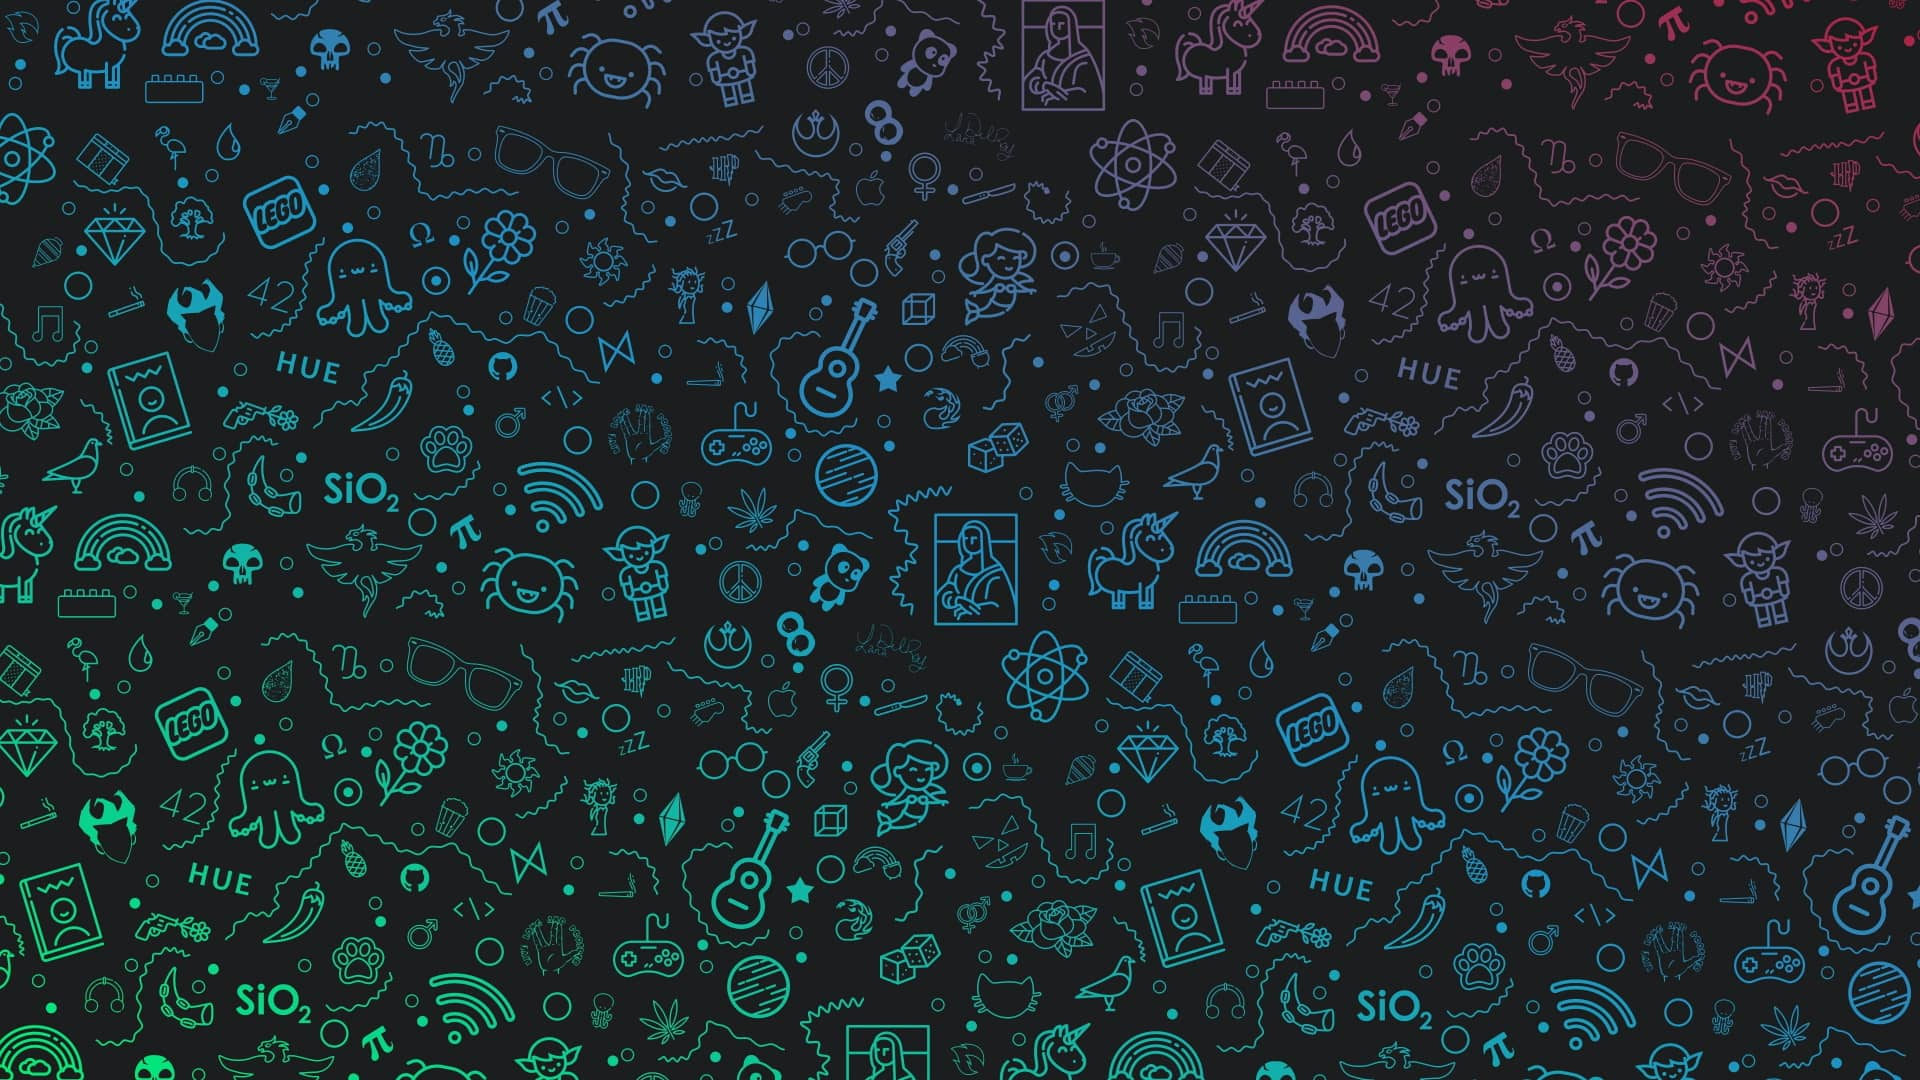
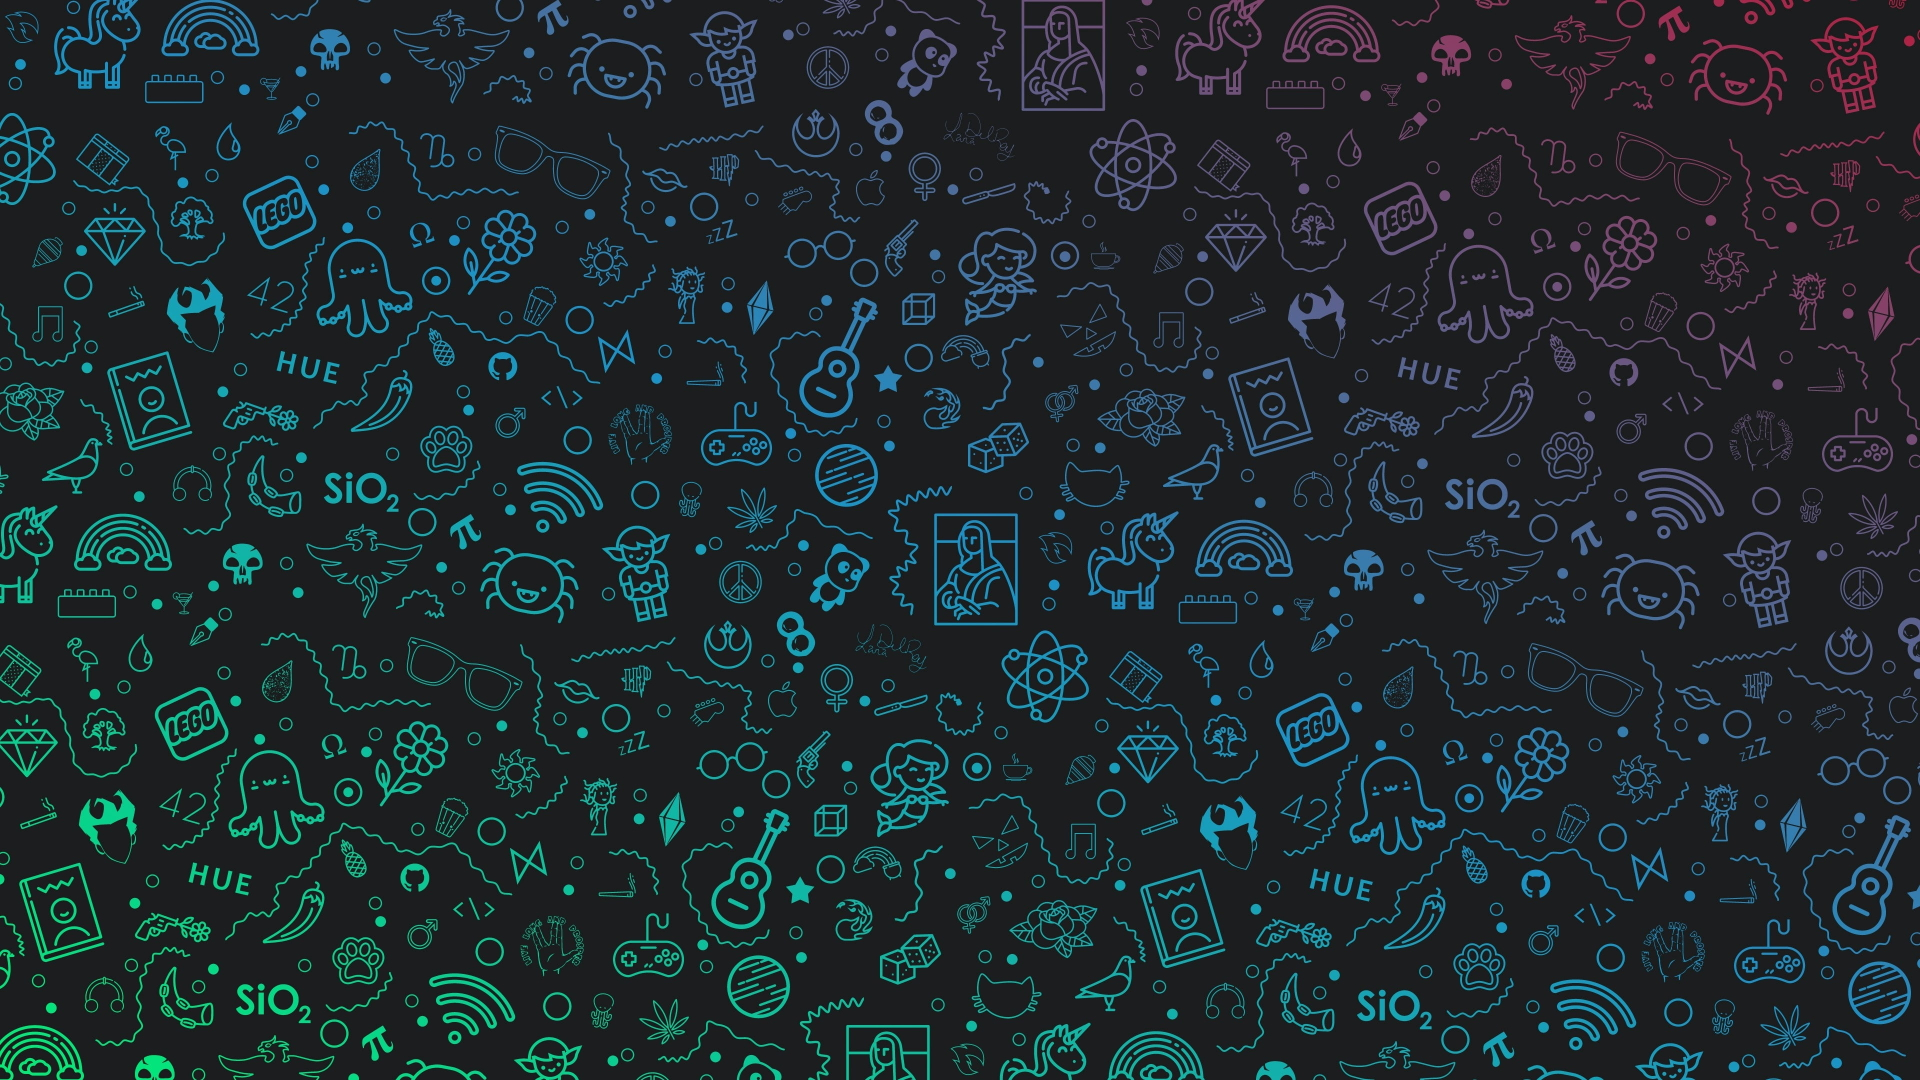
background better quality - clearLocalStorage functions deleted

diff --git a/build/static/js/main.74f4a0b4.chunk.js b/build/static/js/main.74f4a0b4.chunk.js
@@ -1,0 +1,2 @@
+(this["webpackJsonpchat-react-socket"]=this["webpackJsonpchat-react-socket"]||[]).push([[0],{107:function(e,t,n){},108:function(e,t,n){},109:function(e,t,n){},111:function(e,t,n){},112:function(e,t,n){"use strict";n.r(t);var c=n(0),a=n.n(c),r=n(21),s=n.n(r),i=n(7);function o(e,t){var n="React-Socket-Chat"+e,a=Object(c.useState)((function(){var e=localStorage.getItem(n);return null!=e?JSON.parse(e):"function"===typeof t?t():t})),r=Object(i.a)(a,2),s=r[0],o=r[1];return Object(c.useEffect)((function(){localStorage.setItem(n,JSON.stringify(s))}),[n,s]),[s,o]}var l=n(115),j=n(119),u=n(116),d=n(120),b=n(1);function m(e){var t=e.onIdSubmit,n=Object(c.useRef)();return Object(b.jsx)(l.a,{className:"align-items-center d-flex",style:{height:"100vh"},children:Object(b.jsxs)(j.a,{onSubmit:function(e){e.preventDefault(),t(n.current.value)},className:"w-100 loginForm",children:[Object(b.jsxs)(j.a.Group,{children:[Object(b.jsxs)(j.a.Label,{children:[Object(b.jsx)("p",{className:"loginText text-white",children:"- Enter your 10 Digit Phone Number"}),Object(b.jsx)("p",{className:"loginText text-white",children:"- Or Generate a Random ID"})]}),Object(b.jsx)(j.a.Control,{type:"text",ref:n,required:!0})]}),Object(b.jsx)(u.a,{type:"submit",className:"mr-2 btnCreate",children:"Login"}),Object(b.jsx)(u.a,{onClick:function(){t(Object(d.a)())},variant:"secondary",children:"Create a new ID"}),Object(b.jsx)(u.a,{onClick:function(){localStorage.clear()},className:"rounded-1 modalButton",children:"Borrame"})]})})}var f=n(117),x=n(24),O=n(22),h=a.a.createContext();function v(){return Object(c.useContext)(h)}function p(e){var t=e.children,n=o("contacts",[]),c=Object(i.a)(n,2),a=c[0],r=c[1];return Object(b.jsx)(h.Provider,{value:{contacts:a,createContact:function(e,t){r((function(n){return[].concat(Object(O.a)(n),[{id:e,name:t}])}))}},children:t})}var g=n(66),C=n.n(g),y=a.a.createContext();function N(e){var t=e.id,n=e.children,a=Object(c.useState)(),r=Object(i.a)(a,2),s=r[0],o=r[1];return Object(c.useEffect)((function(){var e=C()("https://ulisesv-react-chat-webapp.herokuapp.com",{withCredentials:!1,query:{id:t}});return o(e),console.log(e),function(){return e.close()}}),[t]),Object(b.jsx)(y.Provider,{value:s,children:n})}var S=a.a.createContext();function I(){return Object(c.useContext)(S)}function k(e){var t=e.id,n=e.children,a=o("conversations",[]),r=Object(i.a)(a,2),s=r[0],l=r[1],j=Object(c.useState)(0),u=Object(i.a)(j,2),d=u[0],m=u[1],f=v().contacts,h=Object(c.useContext)(y);var p=Object(c.useCallback)((function(e){var t=e.recipients,n=e.text,c=e.sender;l((function(e){var a=!1,r={sender:c,text:n},s=e.map((function(e){return n=e.recipients,c=t,n.length===c.length&&(n.sort(),c.sort(),n.every((function(e,t){return e===c[t]})))?(a=!0,Object(x.a)(Object(x.a)({},e),{},{messages:[].concat(Object(O.a)(e.messages),[r])})):e;var n,c}));return a?s:[].concat(Object(O.a)(e),[{recipients:t,messages:[r]}])}))}),[l]);Object(c.useEffect)((function(){if(null!=h)return h.on("receive-message",p),function(){return h.off("receive-message")}}),[h,p]);var g=s.map((function(e,n){var c=e.recipients.map((function(e){var t=f.find((function(t){return t.id===e})),n=t&&t.name||e;return{id:e,name:n}})),a=e.messages.map((function(e){var n=f.find((function(t){return t.id===e.sender})),c=n&&n.name||e.sender,a=t===e.sender;return Object(x.a)(Object(x.a)({},e),{},{senderName:c,fromMe:a})})),r=n===d;return Object(x.a)(Object(x.a)({},e),{},{messages:a,recipients:c,selected:r})})),C={conversations:g,selectedConversation:g[d],sendMessage:function(e,n){h.emit("send-message",{recipients:e,text:n}),p({recipients:e,text:n,sender:t})},selectConversationIndex:m,createConversation:function(e){l((function(t){return[].concat(Object(O.a)(t),[{recipients:e,messages:[]}])}))}};return Object(b.jsx)(S.Provider,{value:C,children:n})}function w(){var e=Object(c.useState)(""),t=Object(i.a)(e,2),n=t[0],a=t[1],r=Object(c.useCallback)((function(e){e&&e.scrollIntoView({smooth:!0})}),[]),s=I(),o=s.sendMessage,l=s.selectedConversation;return Object(b.jsxs)("div",{className:"d-flex flex-column flex-grow-1 conversationMain",children:[Object(b.jsx)("div",{className:"flex-grow-1 overflow-auto",children:Object(b.jsx)("div",{className:"d-flex flex-column align-items-start justify-content-end px-3",children:l.messages.map((function(e,t){var n=l.messages.length-1===t;return Object(b.jsxs)("div",{ref:n?r:null,className:"my-1 d-flex flex-column ".concat(e.fromMe?"align-self-end align-items-end":"align-items-start"),children:[Object(b.jsx)("div",{className:"rounded px-2 py-1 ".concat(e.fromMe?"forMe":"notForMe"),children:e.text}),Object(b.jsx)("div",{className:"userReference small ".concat(e.fromMe?"text-right mr-2":"ml-2"),children:e.fromMe?"You":e.senderName})]},t)}))})}),Object(b.jsx)(j.a,{onSubmit:function(e){e.preventDefault(),o(l.recipients.map((function(e){return e.id})),n),a("")},children:Object(b.jsx)(j.a.Group,{className:"m-2",children:Object(b.jsxs)(f.a,{children:[Object(b.jsx)(j.a.Control,{as:"textarea",required:!0,value:n,onChange:function(e){return a(e.target.value)},style:{height:"75px",resize:"none"},className:"textArea"}),Object(b.jsx)(f.a.Append,{children:Object(b.jsxs)(u.a,{type:"submit",className:"sendMessage",children:["Send ",Object(b.jsx)("i",{className:"far fa-arrow-alt-circle-right"})]})})]})})})]})}var B=n(122),M=n(121),E=n(118),L=n(123);n(107);function D(){var e=I(),t=e.conversations,n=e.selectConversationIndex;return Object(b.jsx)(L.a,{variant:"flush",children:t.map((function(e,t){return Object(b.jsx)(L.a.Item,{action:!0,onClick:function(){return n(t)},active:e.selected,children:e.recipients.map((function(e){return e.name})).join(", ")},t)}))})}function G(){var e=v().contacts;return Object(b.jsx)(L.a,{variant:"flush",className:"contact",children:e.map((function(e){return Object(b.jsxs)(L.a.Item,{className:"contact",children:[Object(b.jsx)("p",{className:"contactLine",children:e.name})," ",Object(b.jsx)("p",{className:"contactLine id",children:e.id})]},e.id)}))})}n(108),n(109);function P(e){var t=e.closeModal,n=Object(c.useRef)(),a=Object(c.useRef)(),r=v().createContact;return Object(b.jsxs)(b.Fragment,{children:[Object(b.jsx)(E.a.Header,{closeButton:!0,children:"Create Contact"}),Object(b.jsx)(E.a.Body,{children:Object(b.jsxs)(j.a,{onSubmit:function(e){e.preventDefault(),r(n.current.value,a.current.value),t()},children:[Object(b.jsxs)(j.a.Group,{children:[Object(b.jsx)(j.a.Label,{children:"Id"}),Object(b.jsx)(j.a.Control,{type:"text",ref:n,required:!0})]}),Object(b.jsxs)(j.a.Group,{children:[Object(b.jsx)(j.a.Label,{children:"Name"}),Object(b.jsx)(j.a.Control,{type:"text",ref:a,required:!0})]}),Object(b.jsx)(u.a,{type:"submit",className:"btnCreate",children:"Create"})]})})]})}function R(e){var t=e.closeModal,n=Object(c.useState)([]),a=Object(i.a)(n,2),r=a[0],s=a[1],o=v().contacts,l=I().createConversation;return Object(b.jsxs)(b.Fragment,{children:[Object(b.jsx)(E.a.Header,{closeButton:!0,children:"Create Conversation"}),Object(b.jsx)(E.a.Body,{children:Object(b.jsxs)(j.a,{onSubmit:function(e){e.preventDefault(),l(r),t()},children:[o.map((function(e){return Object(b.jsx)(j.a.Group,{controlId:e.id,children:Object(b.jsx)(j.a.Check,{type:"checkbox",value:r.includes(e.id),label:e.name,onChange:function(){return t=e.id,void s((function(e){return e.includes(t)?e.filter((function(e){return t!==e})):[].concat(Object(O.a)(e),[t])}));var t}})},e.id)})),Object(b.jsx)(u.a,{type:"submit",className:"btnCreate",children:"Create"})]})})]})}var q="conversations",H="contacts";function K(e){var t=e.id,n=Object(c.useState)(q),a=Object(i.a)(n,2),r=a[0],s=a[1],o=Object(c.useState)(!1),l=Object(i.a)(o,2),j=l[0],d=l[1],m=r===q;function f(){d(!1)}return Object(b.jsxs)("div",{id:"sideBarContainer",className:"flex-column sideBarContainer",style:{display:"flex"},children:[Object(b.jsxs)(B.a.Container,{activeKey:r,onSelect:s,children:[Object(b.jsxs)(M.a,{variant:"tabs",className:"justify-content-left",children:[Object(b.jsx)(M.a.Item,{children:Object(b.jsx)(M.a.Link,{className:"activeTab",eventKey:q,children:"Conversations"})}),Object(b.jsx)(M.a.Item,{children:Object(b.jsx)(M.a.Link,{className:"disableTab",eventKey:H,children:"Contacts"})})]}),Object(b.jsxs)(B.a.Content,{className:"overflow-auto flex-grow-1",children:[Object(b.jsx)(B.a.Pane,{eventKey:q,children:Object(b.jsx)(D,{})}),Object(b.jsx)(B.a.Pane,{eventKey:H,className:"contact",children:Object(b.jsx)(G,{})})]}),Object(b.jsxs)("div",{className:"p-2 small",children:["Your Id: ",Object(b.jsxs)("span",{className:"text-white",children:[" ",t]})]}),Object(b.jsxs)(u.a,{onClick:function(){return d(!0)},className:"rounded-1 modalButton",children:["New ",m?"Conversation":"Contact"]})]}),Object(b.jsx)(E.a,{show:j,onHide:f,children:m?Object(b.jsx)(R,{closeModal:f}):Object(b.jsx)(P,{closeModal:f})})]})}function F(e){var t=e.id,n=I().selectedConversation;return Object(b.jsxs)("div",{className:"d-flex",style:{height:"100vh"},children:[Object(b.jsx)("div",{id:"hamburgerHide",children:Object(b.jsx)("i",{className:"fas fa-hamburger hamburgerHide",onClick:function(){return function(){var e=document.getElementById("sideBarContainer");if(console.log(e),"none"===e.style.display){var t=document.getElementById("sideBarContainer");t.style.display="flex",console.log(t)}else{var n=document.getElementById("sideBarContainer");n.style.display="none",console.log(n)}}()},style:{display:"none"}})}),Object(b.jsx)("div",{onClick:function(){localStorage.clear()},className:"rounded-1 modalButton",style:{position:"fixed"},children:"Borrame"}),Object(b.jsx)(K,{id:t}),n&&Object(b.jsx)(w,{})]})}var J=function(){var e=o("id"),t=Object(i.a)(e,2),n=t[0],c=t[1];return n?Object(b.jsx)(N,{id:n,children:Object(b.jsx)(p,{children:Object(b.jsx)(k,{id:n,children:Object(b.jsx)(F,{id:n})})})}):Object(b.jsx)(m,{onIdSubmit:c})};n(110),n(111);s.a.render(Object(b.jsx)(a.a.StrictMode,{children:Object(b.jsx)(J,{})}),document.getElementById("root"))}},[[112,1,2]]]);
+//# sourceMappingURL=main.74f4a0b4.chunk.js.map

diff --git a/build/index.html b/build/index.html
@@ -1,1 +1,1 @@
-<!doctype html><html lang="en"><head><meta charset="utf-8"/><link rel="icon" href="/React-Socket-io-Chat/favicon4.svg"/><meta name="viewport" content="width=device-width,initial-scale=1"/><meta name="theme-color" content="#000000"/><link rel="apple-touch-icon" href="/React-Socket-io-Chat/logo192.png"/><link rel="manifest" href="/React-Socket-io-Chat/manifest.json"/><script src="https://kit.fontawesome.com/94235d9528.js" crossorigin="anonymous"></script><title>Bla bla bla</title><link href="/React-Socket-io-Chat/static/css/2.4c97ca4f.chunk.css" rel="stylesheet"><link href="/React-Socket-io-Chat/static/css/main.a222a91c.chunk.css" rel="stylesheet"></head><body><noscript>You need to enable JavaScript to run this app.</noscript><div id="root"></div><script>!function(e){function t(t){for(var n,a,c=t[0],l=t[1],i=t[2],p=0,s=[];p<c.length;p++)a=c[p],Object.prototype.hasOwnProperty.call(o,a)&&o[a]&&s.push(o[a][0]),o[a]=0;for(n in l)Object.prototype.hasOwnProperty.call(l,n)&&(e[n]=l[n]);for(f&&f(t);s.length;)s.shift()();return u.push.apply(u,i||[]),r()}function r(){for(var e,t=0;t<u.length;t++){for(var r=u[t],n=!0,c=1;c<r.length;c++){var l=r[c];0!==o[l]&&(n=!1)}n&&(u.splice(t--,1),e=a(a.s=r[0]))}return e}var n={},o={1:0},u=[];function a(t){if(n[t])return n[t].exports;var r=n[t]={i:t,l:!1,exports:{}};return e[t].call(r.exports,r,r.exports,a),r.l=!0,r.exports}a.m=e,a.c=n,a.d=function(e,t,r){a.o(e,t)||Object.defineProperty(e,t,{enumerable:!0,get:r})},a.r=function(e){"undefined"!=typeof Symbol&&Symbol.toStringTag&&Object.defineProperty(e,Symbol.toStringTag,{value:"Module"}),Object.defineProperty(e,"__esModule",{value:!0})},a.t=function(e,t){if(1&t&&(e=a(e)),8&t)return e;if(4&t&&"object"==typeof e&&e&&e.__esModule)return e;var r=Object.create(null);if(a.r(r),Object.defineProperty(r,"default",{enumerable:!0,value:e}),2&t&&"string"!=typeof e)for(var n in e)a.d(r,n,function(t){return e[t]}.bind(null,n));return r},a.n=function(e){var t=e&&e.__esModule?function(){return e.default}:function(){return e};return a.d(t,"a",t),t},a.o=function(e,t){return Object.prototype.hasOwnProperty.call(e,t)},a.p="/React-Socket-io-Chat/";var c=this["webpackJsonpchat-react-socket"]=this["webpackJsonpchat-react-socket"]||[],l=c.push.bind(c);c.push=t,c=c.slice();for(var i=0;i<c.length;i++)t(c[i]);var f=l;r()}([])</script><script src="/React-Socket-io-Chat/static/js/2.f88950ad.chunk.js"></script><script src="/React-Socket-io-Chat/static/js/main.119f6495.chunk.js"></script></body></html>
+<!doctype html><html lang="en"><head><meta charset="utf-8"/><link rel="icon" href="/React-Socket-io-Chat/favicon4.svg"/><meta name="viewport" content="width=device-width,initial-scale=1"/><meta name="theme-color" content="#000000"/><link rel="apple-touch-icon" href="/React-Socket-io-Chat/logo192.png"/><link rel="manifest" href="/React-Socket-io-Chat/manifest.json"/><script src="https://kit.fontawesome.com/94235d9528.js" crossorigin="anonymous"></script><title>Bla bla blaaa!!!</title><link href="/React-Socket-io-Chat/static/css/2.4c97ca4f.chunk.css" rel="stylesheet"><link href="/React-Socket-io-Chat/static/css/main.852f1391.chunk.css" rel="stylesheet"></head><body><div id="root"></div><script>!function(e){function t(t){for(var n,a,c=t[0],l=t[1],i=t[2],p=0,s=[];p<c.length;p++)a=c[p],Object.prototype.hasOwnProperty.call(o,a)&&o[a]&&s.push(o[a][0]),o[a]=0;for(n in l)Object.prototype.hasOwnProperty.call(l,n)&&(e[n]=l[n]);for(f&&f(t);s.length;)s.shift()();return u.push.apply(u,i||[]),r()}function r(){for(var e,t=0;t<u.length;t++){for(var r=u[t],n=!0,c=1;c<r.length;c++){var l=r[c];0!==o[l]&&(n=!1)}n&&(u.splice(t--,1),e=a(a.s=r[0]))}return e}var n={},o={1:0},u=[];function a(t){if(n[t])return n[t].exports;var r=n[t]={i:t,l:!1,exports:{}};return e[t].call(r.exports,r,r.exports,a),r.l=!0,r.exports}a.m=e,a.c=n,a.d=function(e,t,r){a.o(e,t)||Object.defineProperty(e,t,{enumerable:!0,get:r})},a.r=function(e){"undefined"!=typeof Symbol&&Symbol.toStringTag&&Object.defineProperty(e,Symbol.toStringTag,{value:"Module"}),Object.defineProperty(e,"__esModule",{value:!0})},a.t=function(e,t){if(1&t&&(e=a(e)),8&t)return e;if(4&t&&"object"==typeof e&&e&&e.__esModule)return e;var r=Object.create(null);if(a.r(r),Object.defineProperty(r,"default",{enumerable:!0,value:e}),2&t&&"string"!=typeof e)for(var n in e)a.d(r,n,function(t){return e[t]}.bind(null,n));return r},a.n=function(e){var t=e&&e.__esModule?function(){return e.default}:function(){return e};return a.d(t,"a",t),t},a.o=function(e,t){return Object.prototype.hasOwnProperty.call(e,t)},a.p="/React-Socket-io-Chat/";var c=this["webpackJsonpchat-react-socket"]=this["webpackJsonpchat-react-socket"]||[],l=c.push.bind(c);c.push=t,c=c.slice();for(var i=0;i<c.length;i++)t(c[i]);var f=l;r()}([])</script><script src="/React-Socket-io-Chat/static/js/2.f88950ad.chunk.js"></script><script src="/React-Socket-io-Chat/static/js/main.74f4a0b4.chunk.js"></script></body></html>

diff --git a/build/static/css/main.852f1391.chunk.css b/build/static/css/main.852f1391.chunk.css
@@ -1,0 +1,2 @@
+.list-group .list-group-item{background-color:rgba(52,58,64,0)!important;color:grey!important;border:#e71a1a!important}.list-group .active{background-color:rgba(0,0,0,.548)!important;color:#00f7ff!important;text-shadow:5px 5px 3px #00f7ff}.tab-content .tab-pane{border:1px solid #00f7ff!important;border-radius:10px;overflow:hidden;margin-top:20px}.tab-content{border:2px solid #00f7ff!important;border-radius:10px;border-top-left-radius:0;overflow:hidden}.tab-content .tab-pane .list-group .list-group-item{border-top:1px solid #636363!important}.sendMessage{color:#00f7ff!important;background:#020202!important;border:1px solid #00f7ff!important}.sendMessage:hover{text-shadow:3px 3px 3px #00f7ff}@media screen and (max-width:770px){.hamburgerHide{position:fixed;display:block!important;width:-webkit-fit-content;width:-moz-fit-content;width:fit-content;background:rgba(0,0,0,.7);padding:10px;top:10px;left:10px;border-radius:5px;border:1px solid #00f7ff;color:#00f7ff;font-size:larger}}@media screen and (max-width:770px){.tab-content{border-top-right-radius:0!important}.tab-pane{border-radius:10px!important}}.conversationMain{background:transparent;background-position:50%;background-repeat:no-repeat;background-attachment:fixed;background-size:cover}.forMe{background:#000!important;color:#00f7ff;border:1px solid #00f7ff}.notForMe{background:#00f7ff!important;color:#000}.userReference{color:#fff}.sideBarContainer{display:-webkit-flex;display:flex;min-width:150px;width:30%;max-width:300px;background:rgba(0,0,0,.548)!important}.nav-item{overflow:hidden}.activeTab,.disableTab{background:rgba(0,0,0,.548)!important}.nav-link{color:grey}.nav-link:hover{color:#500bf0}.active{color:#00f7ff!important;border:1px solid #00f7ff!important}.nav-tabs{border-bottom:none!important;background:none}.contact .contact{color:#00f7ff!important;text-shadow:3px 3px 3px #00f7ff}.contact .id{color:#dfdfdf!important;font-size:12px}.contactLine{line-height:15px;margin-bottom:5px}.modalButton{background:#020202!important;color:#00f7ff!important;border-color:#00f7ff!important;margin-bottom:9px}.modalButton:hover{text-shadow:5px 5px 3px #00f7ff}.textArea{background:rgba(0,0,0,.7)!important;color:#fff!important;border-color:#00f7ff!important}@media screen and (max-width:770px){.sideBarContainer{margin-top:60px!important}.nav-item{width:100%!important}.nav-link{border-right:1px solid #00f7ff!important;border-left:1px solid #00f7ff!important;border-top:1px solid #00f7ff!important;border-top-left-radius:0!important;border-top-right-radius:0!important}.nav-link:hover{color:#500bf0}.active{color:#00f7ff!important;border:1px solid #00f7ff!important}}.modal-content{background:rgba(0,0,0,.836)!important;border-radius:10px!important}.modal-body,.modal-header{background:rgba(2,2,2,.274);border:1px solid #00f7ff;color:#00f7ff}.modal-header{border-bottom:0!important;border-top-left-radius:10px!important;border-top-right-radius:10px!important}.modal-body{border-bottom-left-radius:10px!important;border-bottom-right-radius:10px!important}.form-control{background:rgba(0,0,0,.7)!important;color:#fff!important}.btnCreate,.form-control{border:1px solid #00f7ff!important}.btnCreate{background:#020202!important;color:#00f7ff!important}.btnCreate:hover{text-shadow:2px 2px 3px #000;background:#00f7ff!important;color:#000!important}.close{color:#00f7ff!important}.form-check-input{background:red!important}body{color:#fff;background:url(/React-Socket-io-Chat/static/media/back1.43c11961.jpg)}.loginText{margin:0;padding-left:10px;padding-right:10px}.loginForm{max-width:500px;background:rgba(0,0,0,.762);padding:20px;border:1px solid #00f7ff;border-radius:10px;box-sizing:border-box;margin:auto}
+/*# sourceMappingURL=main.852f1391.chunk.css.map */

diff --git a/src/components/Login.js b/src/components/Login.js
@@ -16,10 +16,6 @@ export default function Login({ onIdSubmit }) {
         onIdSubmit(uuidV4());
     }
 
-    function eraseLocalStorage(){
-        localStorage.clear();
-    }
-
     return (
         <Container className="align-items-center d-flex" style={{ height: '100vh'}}>
             <Form onSubmit={handleSubmit} className="w-100 loginForm">
@@ -32,9 +28,6 @@ export default function Login({ onIdSubmit }) {
                 </Form.Group>
                 <Button type="submit" className="mr-2 btnCreate">Login</Button>
                 <Button onClick={createNewId} variant="secondary" >Create a new ID</Button>
-                <Button onClick={() => eraseLocalStorage()} className="rounded-1 modalButton">
-                    Borrame
-                </Button>
             </Form>
             
         </Container>

diff --git a/src/components/Dashboard.js b/src/components/Dashboard.js
@@ -24,17 +24,9 @@ export default function Dashboard({ id }) {
        
     }
 
-    function eraseLocalStorage(){
-        localStorage.clear();
-    }
-
-
     return (
         <div className="d-flex" style={{ height: '100vh'}}>
             <div id="hamburgerHide"><i className="fas fa-hamburger hamburgerHide" onClick={() =>openMenu()} style={{display:'none'}}></i></div>
-            <div onClick={() => eraseLocalStorage()} className="rounded-1 modalButton" style={{ position: 'fixed'}}>
-                Borrame
-            </div>
             <Sidebar id = { id } />
             { selectedConversation &&  <OpenConversation /> }
         

diff --git a/src/assets/css/styles.css b/src/assets/css/styles.css
@@ -19,3 +19,31 @@ body{
     box-sizing: border-box;
     margin: auto;
 }
+
+/*ScrollBar*/
+::-webkit-scrollbar-corner {
+    border-radius: 2px;
+    cursor: pointer;
+}
+
+::-webkit-scrollbar {
+    width: 10px;
+}
+
+::-webkit-scrollbar-track {
+    border-radius: 20px;
+    background: #2c2b2b;
+}
+
+::-webkit-scrollbar-thumb {
+    width: 10px;
+    background: rgb(0, 247, 255);
+    border-radius: 20px;
+    cursor: pointer;
+}
+
+::-webkit-scrollbar-thumb:hover {
+    width: 10px;
+    background: rgb(0, 247, 255);
+    border-radius: 20px;
+}
